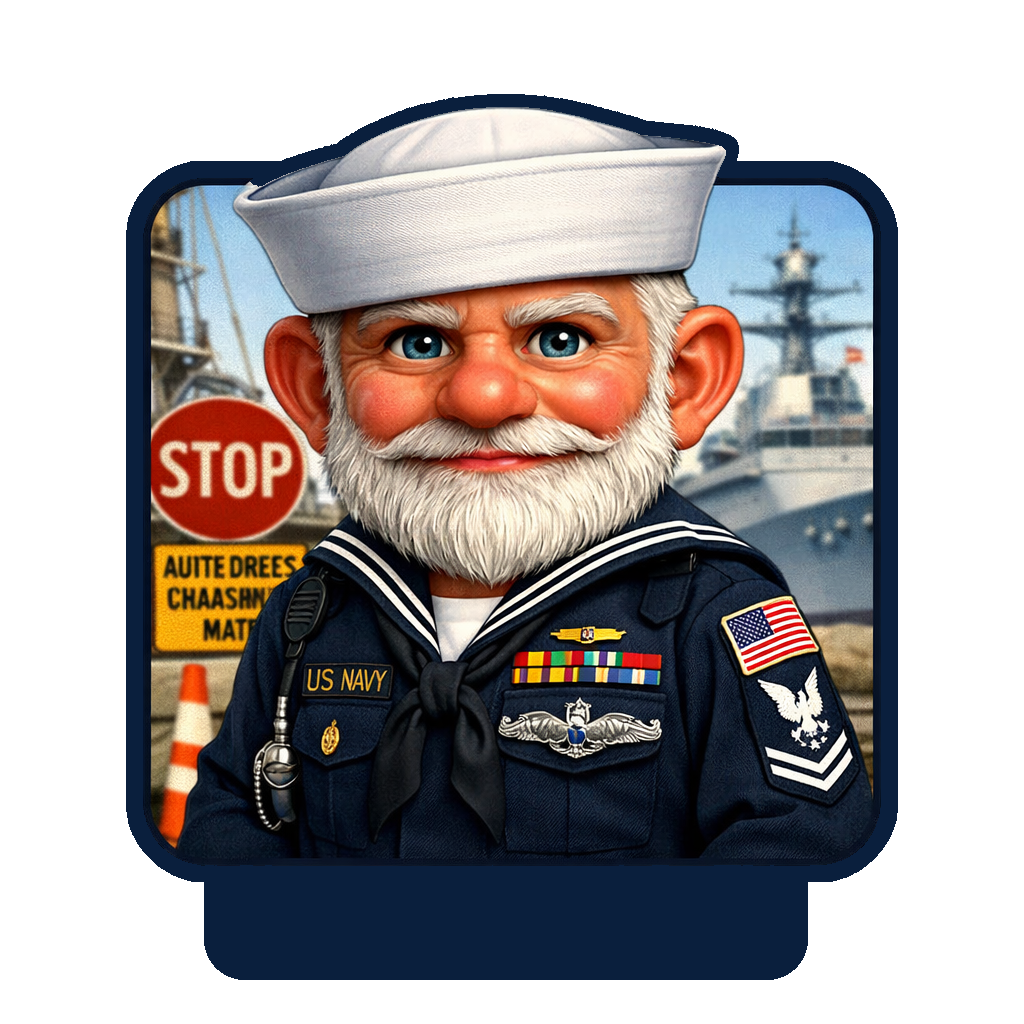
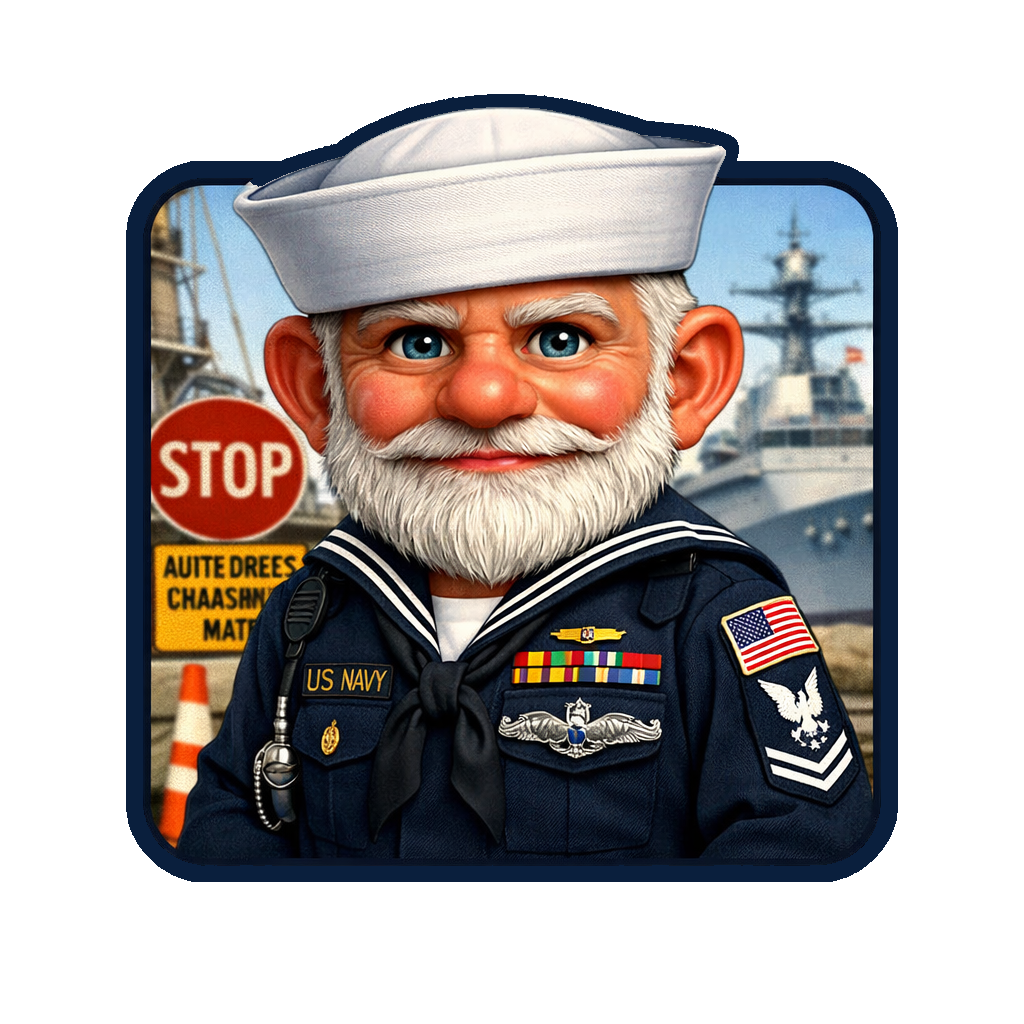
site: new OD + Navy router gnome art; rename Haven Olive -> Haven OD; tighten heading spacing

Changed region(s): [[0.1875, 0.8438, 0.8125, 0.9688]]

diff --git a/js/milestones.js b/js/milestones.js
@@ -1,5 +1,27 @@
 var milestonesDataset = [
   {
+    "id": 485,
+    "date": "2026-05-31",
+    "theme": "Off-network filtering",
+    "impact": 4,
+    "summary": "Off-network filtering became per-device and self-serve: a parent picks a device in the Helm, scans its code, and that specific device keeps its own filtering rules on cellular — different devices, different rules, even away from home.",
+    "detail": "Helm enroll action mints an opaque per-device handle and registers it with the relay over the tunnel; relay routes the handle to that device's filter; proven end-to-end on the bench.",
+    "benefit": "Each device now carries its own protection off the home network, set up in one scan, with the device's name never leaving your router.",
+    "ref": "",
+    "features": []
+  },
+  {
+    "id": 484,
+    "date": "2026-05-30",
+    "theme": "Off-network filtering",
+    "impact": 5,
+    "summary": "Off-network filtering went live: a device keeps Haven's protection on cellular with no app, set up by scanning a code on the router. Proven end-to-end on a real phone, and each home routes to its own router.",
+    "detail": "Cloud relay (DoT/DoH) over WireGuard to the home router's filter; per-router provisioning scripted into the burn; SNI selector routes each household to its own router; per-device routing mechanism proven.",
+    "benefit": "Protection that used to stop at the front door now follows phones and tablets wherever they go, with a one-scan setup and nothing to install.",
+    "ref": "",
+    "features": []
+  },
+  {
     "id": 483,
     "date": "2026-05-30",
     "theme": "Off-network filtering",
@@ -369,7 +391,7 @@ var milestonesDataset = [
     "features": [
       {
         "id": 30,
-        "lead": "Haven Olive"
+        "lead": "Haven OD"
       }
     ]
   },
@@ -2442,7 +2464,7 @@ var milestonesDataset = [
       },
       {
         "id": 30,
-        "lead": "Haven Olive"
+        "lead": "Haven OD"
       }
     ]
   },
@@ -2462,7 +2484,7 @@ var milestonesDataset = [
       },
       {
         "id": 30,
-        "lead": "Haven Olive"
+        "lead": "Haven OD"
       }
     ]
   },
@@ -2662,7 +2684,7 @@ var milestonesDataset = [
       },
       {
         "id": 30,
-        "lead": "Haven Olive"
+        "lead": "Haven OD"
       }
     ]
   },
@@ -2907,7 +2929,7 @@ var milestonesDataset = [
       },
       {
         "id": 30,
-        "lead": "Haven Olive"
+        "lead": "Haven OD"
       }
     ]
   },
@@ -2991,7 +3013,7 @@ var milestonesDataset = [
       },
       {
         "id": 30,
-        "lead": "Haven Olive"
+        "lead": "Haven OD"
       }
     ]
   },
@@ -3297,7 +3319,7 @@ var milestonesDataset = [
     "features": [
       {
         "id": 30,
-        "lead": "Haven Olive"
+        "lead": "Haven OD"
       }
     ]
   },
@@ -3406,7 +3428,7 @@ var milestonesDataset = [
     "features": [
       {
         "id": 30,
-        "lead": "Haven Olive"
+        "lead": "Haven OD"
       }
     ]
   },

diff --git a/index.html b/index.html
@@ -215,13 +215,13 @@
 		</div>
 		<div class="row justify-content-center align-items-start">
 			<div class="col-md-6 col-lg-5 align-center px-3 mb-4">
-				<img src="assets/images/haven-olive-gnome.png" alt="Haven Olive — gnome in U.S. Army camouflage uniform with sergeant chevrons" style="max-width: 360px; width: 100%; height: auto; display: block; margin: 0 auto;">
-				<h3 class="mbr-section-subtitle mbr-fonts-style mt-3 mb-1 display-5"><strong>Haven Olive</strong></h3>
+				<img src="assets/images/haven-olive-gnome.png" alt="Haven OD — gnome in U.S. Army camouflage uniform with sergeant chevrons" style="max-width: 360px; width: 100%; height: auto; display: block; margin: 0 auto;">
+				<h3 class="mbr-section-subtitle mbr-fonts-style mt-1 mb-1 display-5"><strong>Haven OD</strong></h3>
 				<p class="mbr-text mbr-fonts-style mb-0 display-7">Linksys E8450 — Essential Wi-Fi 6</p>
 			</div>
 			<div class="col-md-6 col-lg-5 align-center px-3 mb-4">
 				<img src="assets/images/haven-navy-gnome.png" alt="Haven Navy — gnome in U.S. Navy uniform" style="max-width: 360px; width: 100%; height: auto; display: block; margin: 0 auto;">
-				<h3 class="mbr-section-subtitle mbr-fonts-style mt-3 mb-1 display-5"><strong>Haven Navy</strong></h3>
+				<h3 class="mbr-section-subtitle mbr-fonts-style mt-1 mb-1 display-5"><strong>Haven Navy</strong></h3>
 				<p class="mbr-text mbr-fonts-style mb-0 display-7">GL.iNet MT6000 — Performance flagship</p>
 			</div>
 		</div>

diff --git a/js/customer-features.js b/js/customer-features.js
@@ -548,14 +548,14 @@ var cfDataset = [
   {
     "id": 30,
     "section": "how_it_works",
-    "lead": "Haven Olive",
+    "lead": "Haven OD",
     "body": "Wi-Fi 6, secondary",
     "family_rank": 11,
     "privacy_rank": 11,
     "family_lead": null,
     "privacy_lead": null,
     "link": null,
-    "details": "<p>Haven Olive is built on the Linksys E8450 — a well-supported, widely deployed Wi-Fi 6 router that has been a community favorite on OpenWRT for years. Dual-band Wi-Fi 6 (AX3200), four gigabit LAN ports, USB 3. For most households this is more than enough.</p><p>Pick Olive if you want the Haven experience at the lower price point, or if your home has gigabit-class internet rather than multi-gig. The filtering is identical to Navy; the difference is in network capacity at peak load.</p>",
+    "details": "<p>Haven OD is built on the Linksys E8450 — a well-supported, widely deployed Wi-Fi 6 router that has been a community favorite on OpenWRT for years. Dual-band Wi-Fi 6 (AX3200), four gigabit LAN ports, USB 3. For most households this is more than enough.</p><p>Pick OD if you want the Haven experience at the lower price point, or if your home has gigabit-class internet rather than multi-gig. The filtering is identical to Navy; the difference is in network capacity at peak load.</p>",
     "image": "haven-olive-gnome.png",
     "milestone_ids": "70,83,100,105,329,413,422,454",
     "benefits": []
